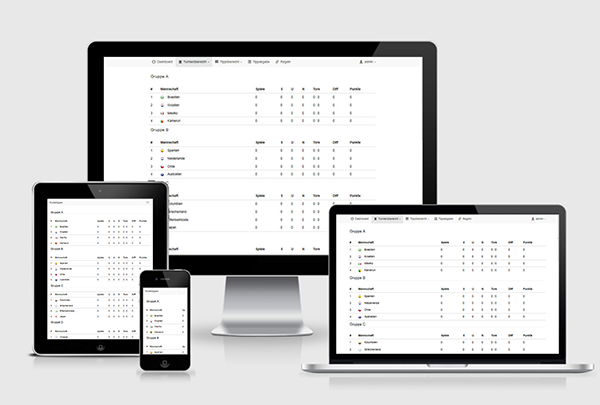
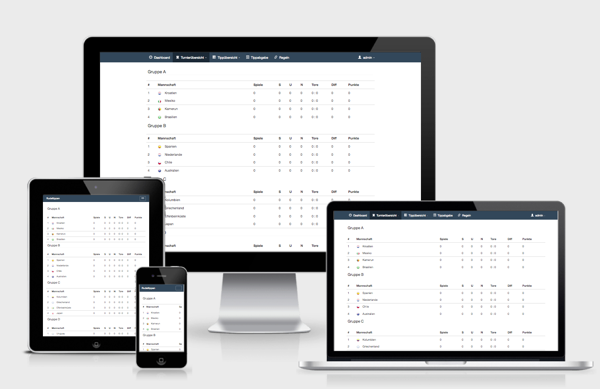
theme optimazations

diff --git a/public/stylesheets/additional.min.css b/public/stylesheets/additional.min.css
@@ -1,1 +1,1 @@
-body{margin-top:75px;font-size:16px}.flag{padding-right:8px}.connecteduser{background-color:#f6f6f6}.form-actions{background-color:inherit}.icon-red{background-image:url(/public/img/glyphicons-halflings-red.png)}.icon-green{background-image:url(/public/img/glyphicons-halflings-green.png)}.pagination{margin:0}hr.message-inner-separator{clear:both;margin-top:10px;margin-bottom:13px;border:0;height:1px;background-image:-webkit-linear-gradient(left,rgba(0,0,0,0),rgba(0,0,0,.15),rgba(0,0,0,0));background-image:-moz-linear-gradient(left,rgba(0,0,0,0),rgba(0,0,0,.15),rgba(0,0,0,0));background-image:-ms-linear-gradient(left,rgba(0,0,0,0),rgba(0,0,0,.15),rgba(0,0,0,0));background-image:-o-linear-gradient(left,rgba(0,0,0,0),rgba(0,0,0,.15),rgba(0,0,0,0))}.colorgraph{height:5px;border-top:0;background:#c4e17f;border-radius:5px;background-image:-webkit-linear-gradient(left,#c4e17f,#c4e17f 12.5%,#f7fdca 12.5%,#f7fdca 25%,#fecf71 25%,#fecf71 37.5%,#f0776c 37.5%,#f0776c 50%,#db9dbe 50%,#db9dbe 62.5%,#c49cde 62.5%,#c49cde 75%,#669ae1 75%,#669ae1 87.5%,#62c2e4 87.5%,#62c2e4);background-image:-moz-linear-gradient(left,#c4e17f,#c4e17f 12.5%,#f7fdca 12.5%,#f7fdca 25%,#fecf71 25%,#fecf71 37.5%,#f0776c 37.5%,#f0776c 50%,#db9dbe 50%,#db9dbe 62.5%,#c49cde 62.5%,#c49cde 75%,#669ae1 75%,#669ae1 87.5%,#62c2e4 87.5%,#62c2e4);background-image:-o-linear-gradient(left,#c4e17f,#c4e17f 12.5%,#f7fdca 12.5%,#f7fdca 25%,#fecf71 25%,#fecf71 37.5%,#f0776c 37.5%,#f0776c 50%,#db9dbe 50%,#db9dbe 62.5%,#c49cde 62.5%,#c49cde 75%,#669ae1 75%,#669ae1 87.5%,#62c2e4 87.5%,#62c2e4);background-image:linear-gradient(to right,#c4e17f,#c4e17f 12.5%,#f7fdca 12.5%,#f7fdca 25%,#fecf71 25%,#fecf71 37.5%,#f0776c 37.5%,#f0776c 50%,#db9dbe 50%,#db9dbe 62.5%,#c49cde 62.5%,#c49cde 75%,#669ae1 75%,#669ae1 87.5%,#62c2e4 87.5%,#62c2e4)}.bs-callout-info{background-color:#F4F8FA;border-color:#5BC0DE}.bs-callout{border-left:3px solid #5BC0DE;margin:20px 0;padding:10px}.remodal-close:after{content:""}.input-small{width:45px;text-align:center}@media (min-width:1023px){.navbar-brand{display:none}}
+.panel-primary{border-color:#2C3E50}.panel-primary>.panel-heading{background-color:#2C3E50;border-color:#2C3E50;color:#FFF}body{margin-top:75px;font-size:16px;font-family:Lato,"Helvetica Neue",Helvetica,Arial,sans-serif}.flag{padding-right:8px}.connecteduser{background-color:#f6f6f6}.form-actions{background-color:inherit}.icon-red{background-image:url(/public/img/glyphicons-halflings-red.png)}.icon-green{background-image:url(/public/img/glyphicons-halflings-green.png)}.pagination{margin:0}hr.message-inner-separator{clear:both;margin-top:10px;margin-bottom:13px;border:0;height:1px;background-image:-webkit-linear-gradient(left,rgba(0,0,0,0),rgba(0,0,0,.15),rgba(0,0,0,0));background-image:-moz-linear-gradient(left,rgba(0,0,0,0),rgba(0,0,0,.15),rgba(0,0,0,0));background-image:-ms-linear-gradient(left,rgba(0,0,0,0),rgba(0,0,0,.15),rgba(0,0,0,0));background-image:-o-linear-gradient(left,rgba(0,0,0,0),rgba(0,0,0,.15),rgba(0,0,0,0))}.colorgraph{height:5px;border-top:0;background:#c4e17f;border-radius:5px;background-image:-webkit-linear-gradient(left,#c4e17f,#c4e17f 12.5%,#f7fdca 12.5%,#f7fdca 25%,#fecf71 25%,#fecf71 37.5%,#f0776c 37.5%,#f0776c 50%,#db9dbe 50%,#db9dbe 62.5%,#c49cde 62.5%,#c49cde 75%,#669ae1 75%,#669ae1 87.5%,#62c2e4 87.5%,#62c2e4);background-image:-moz-linear-gradient(left,#c4e17f,#c4e17f 12.5%,#f7fdca 12.5%,#f7fdca 25%,#fecf71 25%,#fecf71 37.5%,#f0776c 37.5%,#f0776c 50%,#db9dbe 50%,#db9dbe 62.5%,#c49cde 62.5%,#c49cde 75%,#669ae1 75%,#669ae1 87.5%,#62c2e4 87.5%,#62c2e4);background-image:-o-linear-gradient(left,#c4e17f,#c4e17f 12.5%,#f7fdca 12.5%,#f7fdca 25%,#fecf71 25%,#fecf71 37.5%,#f0776c 37.5%,#f0776c 50%,#db9dbe 50%,#db9dbe 62.5%,#c49cde 62.5%,#c49cde 75%,#669ae1 75%,#669ae1 87.5%,#62c2e4 87.5%,#62c2e4);background-image:linear-gradient(to right,#c4e17f,#c4e17f 12.5%,#f7fdca 12.5%,#f7fdca 25%,#fecf71 25%,#fecf71 37.5%,#f0776c 37.5%,#f0776c 50%,#db9dbe 50%,#db9dbe 62.5%,#c49cde 62.5%,#c49cde 75%,#669ae1 75%,#669ae1 87.5%,#62c2e4 87.5%,#62c2e4)}.bs-callout-info{background-color:#F4F8FA;border-color:#5BC0DE}.bs-callout{border-left:3px solid #5BC0DE;margin:20px 0;padding:10px}.remodal-close:after{content:""}.input-small{width:45px;text-align:center}@media (min-width :1023px){.navbar-brand{display:none}}.navbar-default .navbar-brand,.navbar-default .navbar-brand:focus,.navbar-default .navbar-brand:hover{color:#fff}.navbar-default .navbar-toggle{border-color:#fff}.navbar-default .navbar-toggle .icon-bar{background-color:#fff}.navbar-default{background-color:#2C3E50;border-color:#202D3B}.navbar-default .navbar-nav .open .dropdown-menu>li>a:hover{color:#fff}.navbar-default .navbar-collapse,.navbar-default .navbar-form{border-color:#202D3B}.navbar-default .navbar-nav>.active>a,.navbar-default .navbar-nav>.active>a:focus,.navbar-default .navbar-nav>.active>a:hover{background-color:#1A242F;color:#FFF}.navbar-default .navbar-nav>li>a{color:#FFF}.navbar-default .navbar-nav>li>a:hover,.navbar-nav>li>a:focus{color:#18BC9C}.navbar-default .navbar-nav>.open>a,.navbar-default .navbar-nav>.open>a:focus,.navbar-default .navbar-nav>.open>a:hover{background-color:#1A242F;color:#FFF}.dropdown-menu .divider{height:1px;margin:9.5px 0;overflow:hidden;background-color:#e5e5e5}.dropdown-menu>li>a{display:block;padding:3px 20px;clear:both;font-weight:400;line-height:1.42857143;color:#7b8a8b;white-space:nowrap}.dropdown-menu>li>a:focus,.dropdown-menu>li>a:hover{text-decoration:none;color:#fff;background-color:#2c3e50}.dropdown-menu>.active>a,.dropdown-menu>.active>a:focus,.dropdown-menu>.active>a:hover{color:#fff;text-decoration:none;outline:0;background-color:#2c3e50}.dropdown-menu>.disabled>a,.dropdown-menu>.disabled>a:focus,.dropdown-menu>.disabled>a:hover{color:#b4bcc2}.dropdown-menu>.disabled>a:focus,.dropdown-menu>.disabled>a:hover{text-decoration:none;background-color:transparent;background-image:none;filter:progid:DXImageTransform.Microsoft.gradient(enabled=false);cursor:not-allowed}.btn{-moz-user-select:none;background-image:none;border:1px solid rgba(0,0,0,0);border-radius:4px;cursor:pointer;display:inline-block;font-size:15px;font-weight:400;line-height:1.42857;margin-bottom:0;padding:10px 15px;text-align:center;vertical-align:middle;white-space:nowrap}.btn-success{background-color:#18BC9C;border-color:#18BC9C;color:#FFF}.btn-primary{color:#fff;background-color:#2c3e50;border-color:#2c3e50}.btn-success.active,.btn-success:active,.btn-success:focus,.btn-success:hover,.open .dropdown-toggle.btn-success{color:#fff;background-color:#13987e;border-color:#11866f}.btn-success.disabled,.btn-success.disabled.active,.btn-success.disabled:active,.btn-success.disabled:focus,.btn-success.disabled:hover,.btn-success[disabled],.btn-success[disabled].active,.btn-success[disabled]:active,.btn-success[disabled]:focus,.btn-success[disabled]:hover,fieldset[disabled] .btn-success,fieldset[disabled] .btn-success.active,fieldset[disabled] .btn-success:active,fieldset[disabled] .btn-success:focus,fieldset[disabled] .btn-success:hover{background-color:#18bc9c;border-color:#18bc9c}.navbar-default .navbar-nav .open .dropdown-menu>li>a{color:#7B8A8B}

diff --git a/app/views/main.html b/app/views/main.html
@@ -75,41 +75,47 @@
 	#{ifErrors}
 	<div class="container">
 		<div class="row">
-			<div class="alert alert-danger">
-                <button type="button" class="close" data-dismiss="alert" aria-hidden="true">×</button>
-                <span class="glyphicon glyphicon-hand-right"></span> <strong>Fehler</strong>
-                <hr class="message-inner-separator">
-				#{if flash.errormessage != null}
-		    		<p>${flash.errormessage.raw()}</p>
-				#{/if}
-				#{else}
-		    		<p>&{'erroroccured'}</p>
-				#{/else}
-            </div>
+			<div class="col-md-12">
+				<div class="alert alert-danger">
+	                <button type="button" class="close" data-dismiss="alert" aria-hidden="true">×</button>
+	                <span class="glyphicon glyphicon-hand-right"></span> <strong>Fehler</strong>
+	                <hr class="message-inner-separator">
+					#{if flash.errormessage != null}
+			    		<p>${flash.errormessage.raw()}</p>
+					#{/if}
+					#{else}
+			    		<p>&{'erroroccured'}</p>
+					#{/else}
+	            </div>
+	    	</div>
 		</div>
 	</div>
 	#{/ifErrors}
 	#{if flash.warningmessage != null}
 	<div class="container">
 		<div class="row">
-            <div class="alert alert-warning">
-                <button type="button" class="close" data-dismiss="alert" aria-hidden="true">×</button>
-                <span class="glyphicon glyphicon-record"></span> <strong>Warnung</strong>
-                <hr class="message-inner-separator">
-				<p>${flash.warningmessage.raw()}</p>
-            </div>		
+			<div class="col-md-12">
+	            <div class="alert alert-warning">
+	                <button type="button" class="close" data-dismiss="alert" aria-hidden="true">×</button>
+	                <span class="glyphicon glyphicon-record"></span> <strong>Warnung</strong>
+	                <hr class="message-inner-separator">
+					<p>${flash.warningmessage.raw()}</p>
+	            </div>
+	        </div>		
 		</div>
 	</div>
 	#{/if}
 	#{if flash.infomessage != null}
 	<div class="container">
 		<div class="row">
-            <div class="alert alert-success">
-                <button type="button" class="close" data-dismiss="alert" aria-hidden="true">×</button>
-               <span class="glyphicon glyphicon-ok"></span> <strong>Erfolgreich</strong>
-                <hr class="message-inner-separator">
-                <p>${flash.infomessage.raw()}</p>
-            </div>
+			<div class="col-md-12">
+	            <div class="alert alert-success">
+	                <button type="button" class="close" data-dismiss="alert" aria-hidden="true">×</button>
+	               <span class="glyphicon glyphicon-ok"></span> <strong>Erfolgreich</strong>
+	                <hr class="message-inner-separator">
+	                <p>${flash.infomessage.raw()}</p>
+	            </div>
+	        </div>
 		</div>
 	</div>
 	#{/if}    
@@ -136,7 +142,7 @@
 				</div>
 			</div>
 		</div>
-    	<p><a href="https://github.com/svenkubiak/rudeltippen" target="_blank">Rudeltippen 2.2.0</a> | <a href="#credits">Credits</a> | <a href="https://flattr.com/thing/1628177/Rudeltippen" target="_blank">Flattr</a></p>
+    	<p><a href="https://github.com/svenkubiak/rudeltippen" target="_blank">Rudeltippen 2.2.0 Beta</a> | <a href="#credits">Credits</a> | <a href="https://flattr.com/thing/1628177/Rudeltippen" target="_blank">Flattr</a></p>
     </div>
 	<script src="@{'/public/javascripts/combined.js'}" type="text/javascript"></script>
 	#{if request.action == "Admin.tournament"}

diff --git a/app/views/Tips/playday.html b/app/views/Tips/playday.html
@@ -53,7 +53,7 @@
 	    </div>
 	   	#{if playday?.isTippable()}
 	   		<div style="text-align:right; padding-right: 5px;">
-	        	<input type="submit" data-loading-text="&{'save'}..." class="btn btn-success" value="Speichern" />
+	        	<input type="submit" data-loading-text="&{'save'}..." class="btn btn-primary" value="Speichern" />
 	        </div>
 	    #{/if}
 	    #{/form}
@@ -115,7 +115,7 @@
 		</div>
 		#{if tippable}
 	   		<div style="text-align:right; padding-right: 5px;">
-	        	<input type="submit" data-loading-text="&{'save'}..." class="btn btn-success" value="Speichern">
+	        	<input type="submit" data-loading-text="&{'save'}..." class="btn btn-primary" value="Speichern">
 	        </div>
 		#{/if}
 		#{/form}

diff --git a/app/views/Admin/jobs.html b/app/views/Admin/jobs.html
@@ -6,7 +6,7 @@
 </div>
 <div class="row">
 	<div class="col-md-12">
-		<a href="@{admin.jobs()}" class="btn btn-success active" id="fat-btn-loading" role="button"><span class="glyphicon glyphicon-repeat"></span> Aktualisieren</a>
+		<a href="@{admin.jobs()}" class="btn btn-success" id="fat-btn-loading" role="button"><span class="glyphicon glyphicon-repeat"></span> Aktualisieren</a>
 		<div class="table-responsive">
 			<table class="table table-stripes">
 			    <thead>

diff --git a/app/controllers/Auth.java b/app/controllers/Auth.java
@@ -9,8 +9,6 @@ import java.util.List;
 
 import models.Confirmation;
 import models.ConfirmationType;
-import models.Extra;
-import models.Game;
 import models.Settings;
 import models.User;
 import notifiers.Mails;
@@ -226,6 +224,9 @@ public class Auth extends Root implements AppConstants{
 			user.setEmail(email);
 			user.setActive(false);
 			user.setReminder(true);
+			user.setSendStandings(true);
+			user.setSendGameTips(true);
+			user.setNotification(true);
 			user.setAdmin(false);
 			user.setSalt(salt);
 			user.setUserpass(AppUtils.hashPassword(userpass, salt));

diff --git a/README.md b/README.md
@@ -24,6 +24,8 @@ Screenshots
 ![Rudeltippen login](https://raw.github.com/svenkubiak/Rudeltippen/2.2.0/assets/rudelscreen.png)
 ![Rudeltippen overview](https://raw.github.com/svenkubiak/Rudeltippen/2.2.0/assets/rudelscreen-2.png)
 
+Screenshots made with some awesomeness from [Am I Responsive][2].
+
 Requirements
 ------------------
 
@@ -220,6 +222,7 @@ Licence
 Rudeltippen is distributed under [Apache 2 licence][11]
 
 [1]: http://www.oracle.com/technetwork/java/javase/downloads/index.html
+[2]: http://ami.responsivedesign.is
 [5]: https://flattr.com/thing/1628177/Rudeltippen
 [9]: http://www.playframework.com/documentation/1.2.7/production
 [11]: http://www.apache.org/licenses/LICENSE-2.0.html
